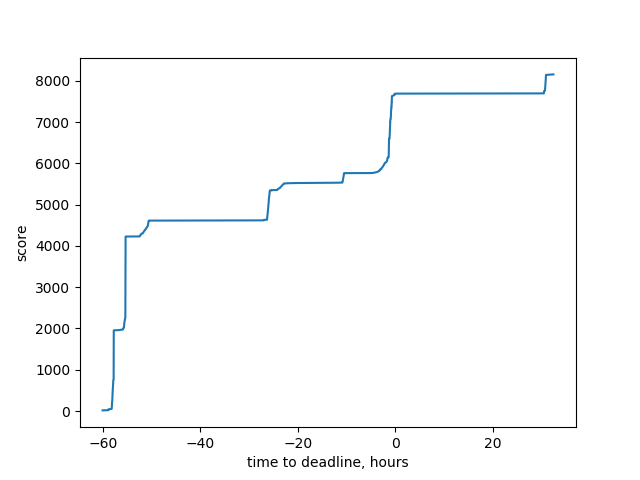
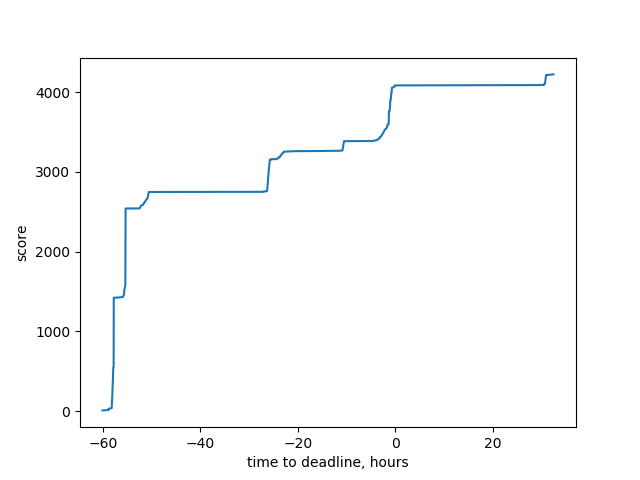
Fix bug in score normalization

diff --git a/production/stats.py b/production/stats.py
@@ -76,18 +76,16 @@ def main():
         if score < score_by_task[task_id]:
             score_by_task[task_id] = score
             normalized_score = log(stats['width'] * stats['height'], 2) * \
-                max(scores[task_id].values()) / score
+                min(scores[task_id].values()) / score
             norm_score_by_task[task_id] = normalized_score
 
             xs.append((time - deadline).total_seconds() / 3600)
             ys.append(sum(norm_score_by_task.values()))
-    #print(sum(norm_score_by_task.values()))
-#    print(xs, ys)
+
     plt.plot(xs, ys)
     plt.xlabel('time to deadline, hours')
     plt.ylabel('score')
     plt.show()
-    # plt.savefig(utils.project_root() / 'outputs/stats.png')
 
 
 if __name__ == '__main__':
